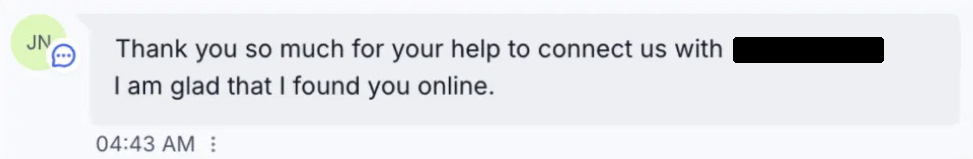
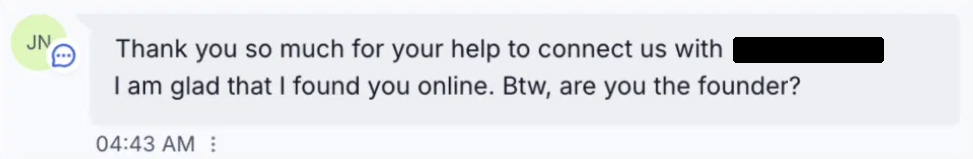
Keep 'are you the founder?' in parent message
Claude-Session: https://claude.ai/code/session_01P937We6H5J8N6LBGuFNgDJ

Changed region(s): [[0.4933, 0.478, 0.8325, 0.6289]]

diff --git a/matchmaking/index.html b/matchmaking/index.html
@@ -325,7 +325,7 @@ footer a{color:inherit;text-decoration:underline;text-underline-offset:2px}
       <div class="ns-wrap">
         <p class="ns-ann">Personally matched counselor for her specific student</p>
         <div class="ns-img">
-        <img src="family-message.png?v=3" width="973" height="159" alt="Message from a parent: Thank you so much for your help to connect us with [counselor name hidden]. I am glad that I found you online." loading="lazy">
+        <img src="family-message.png?v=4" width="973" height="159" alt="Message from a parent: Thank you so much for your help to connect us with [counselor name hidden]. I am glad that I found you online. Btw, are you the founder?" loading="lazy">
         <svg class="ns-arrow ns-arrow-lg" viewBox="0 0 120 70" aria-hidden="true"><path d="M6 64 C 16 26, 52 10, 108 15"/><path d="M96 6 L109 15 L97 25"/></svg>
         <svg class="ns-arrow ns-arrow-sm" viewBox="0 0 90 60" aria-hidden="true"><path d="M84 6 C 62 8, 30 14, 16 50"/><path d="M8 40 L16 52 L26 42"/></svg>
         </div>
